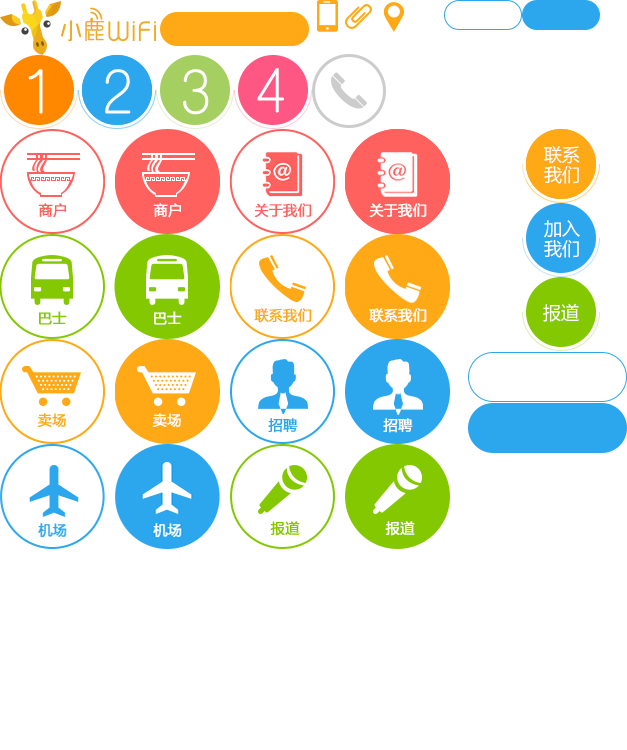
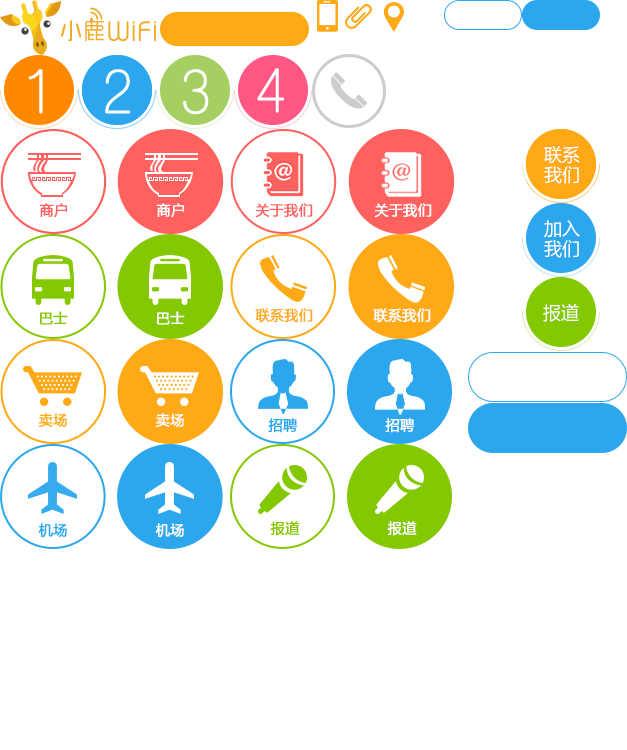
modify head.php, foot.php, and navBar

diff --git a/style/product.css b/style/product.css
@@ -76,10 +76,11 @@ a{color: #000; }
 .mb20{margin-bottom: 20px;}
 .ml20{margin-left: 20px;}
 .ml60{margin-left: 60px;}
+.ml100{margin-left: 100px;}
 .ml200{margin-left: 200px;}
 .pt20{padding-top: 20px;}
 .pl100{padding-left: 100px;}
-.placeHolder50{height: 50px;}
+.placeHolder30{height: 30px;}
 /*float*/
 .fl{float:left;}
 .fr{float:right;}
@@ -93,25 +94,25 @@ a{color: #000; }
 /*sideBar model*/
 .sideBar{position: relative; font-size: 14px; width: 107px; text-align: center; line-height: 105px; }
 .sideBar li{margin-bottom: 24px; height: 105px;}
-.sideBar li a{display: block; width: 105px; height: 105px; background: url('../img/index.png');}
+.sideBar li a{display: block; width: 107px; height: 105px; background: url('../img/index.png');}
 /*case portion*/
 .sideBar .customer{background-position: 0 -129px;}
 .sideBar .mall{background-position: 0 -234px;}
 .sideBar .airport{background-position: 0 -339px;}
 .sideBar .bus{background-position: 0 -444px;}
-.sideBar .customer:hover{background-position: -115px -129px;}
-.sideBar .mall:hover{background-position: -115px -234px;}
-.sideBar .airport:hover{background-position: -115px -339px;}
-.sideBar .bus:hover{background-position: -115px -444px;}
+.sideBar .customer:hover{background-position: -117px -129px;}
+.sideBar .mall:hover{background-position: -117px -234px;}
+.sideBar .airport:hover{background-position: -117px -339px;}
+.sideBar .bus:hover{background-position: -117px -444px;}
 /*about portion*/
 .sideBar .aboutUs{background-position: -230px -129px;}
 .sideBar .contact{background-position: -230px -234px;}
 .sideBar .hire{background-position: -230px -339px;}
 .sideBar .report{background-position: -230px -444px;}
-.sideBar .aboutUs:hover{background-position: -345px -129px;}
-.sideBar .contact:hover{background-position: -345px -234px;}
-.sideBar .hire:hover{background-position: -345px -339px;}
-.sideBar .report:hover{background-position: -345px -444px;}
+.sideBar .aboutUs:hover{background-position: -347px -129px;}
+.sideBar .contact:hover{background-position: -347px -234px;}
+.sideBar .hire:hover{background-position: -347px -339px;}
+.sideBar .report:hover{background-position: -347px -444px;}
 
 /*index.html */
 .header .logo{width:156px; height: 55px; background: url("../img/index.png") no-repeat 0 0;}
@@ -120,27 +121,27 @@ a{color: #000; }
 .header .nav li:hover{border-bottom: 2px solid #fea915; padding-bottom: 0px; cursor: pointer;}
 .header .nav li a{color: #858585; font-size: 16px;}
 .header .nav li a:hover{text-decoration: none;}
-.rightBtn{position: relative;}
-.secondList{position:relative; z-index: 1;}
+.rightBtn{position: relative; top: 17px;}
+.secondList{position:relative; left: 84px; width: 252px; z-index: 1;}
 .secondList ul{display: none;position: absolute;}
 .secondList .u1{left: 0;}
 .secondList .u2{left: 33%;}
 .secondList .u3{left: 66%;}
-.secondList li{width: 84px; height: 40px; background: #fff; text-align: center; line-height: 40px; border-bottom: 2px solid #ccc;}
-.secondList li a{color:#858585;}
+.secondList li{width: 84px; height: 35px; line-height: 35px; background: #fff; text-align: center; border-bottom: 1px solid #e1e1e1;}
+.secondList li a{color:#858585; font-size: 12px; text-decoration: none;}
 .secondList li:hover{background: #fea915; cursor: pointer;}
 .secondList li:hover a{color: #fff;}
 
-.footer{width: 100%; height: 224px; background:#333; color:#ccc;}
+.footer{width: 100%; height: 190px; background:#333; color:#737373;}
 .footer .container{height:100%;}
-.footer .container .numberInfo{width: 340px; height: 100%; background:#454545; color: #ccc; font-weight: bold;}
+.footer .container .numberInfo{width: 340px; height: 100%; background:#454545; color: #aaaaaa; font-weight: bold;}
 .footer .container .numberInfo p{width: 136px; font-size: 20px; height: 74px; line-height: 37px; background:url('../img/index.png') no-repeat -312px -54px;}
 .footer .container .numberInfo h1{font-size: 30px; text-align: center;}
 .footer .textPanel ul li{float:left;}
-.footer .textPanel a{color: #ccc;}
+.footer .textPanel a{color: #737373;}
 .quanguoyewu{letter-spacing: 14px;}
 
-.footNav{margin: 60px auto 40px;}
+.footNav{margin: 40px auto 30px;}
 .footNav li{margin-right: 74px;}
 .footNav li a{font-size: 20px;}
 .footNav li a:hover{color:#fff;}

diff --git a/script/product.js b/script/product.js
@@ -92,7 +92,7 @@ function switchResume(){
 }
 
 function navInteract(){
-	var navList = $('.nav li');
+	var navList = $('.nav li:gt(0)');
 	var secList = $('.secondList ul');
 	// First list show
 	navList.each(function (i){

diff --git a/about.php b/about.php
@@ -3,7 +3,7 @@
 	<!-- aboutMain -->
 	<div class="w960 m0a aboutMain">
 		<div class="pt20 clearFloat">
-			<div class="fl ml60 sideBar">
+			<div class="fl sideBar">
 				<ul>
 					<li>
 						<a class="aboutUs" href="#aboutUs"></a>
@@ -19,7 +19,7 @@
 					</li>
 				</ul>
 			</div>
-			<div class="fl ml60 main">
+			<div class="fl ml100 main">
 				<div class="content" id="aboutUs">
 					<p>龙默升科技是领先的商用智能路由器生产商、商用智能WiFi方案提供商与服务运营商。</p>
 					<p>龙默升科技在全球范围内，为机场、火车站、客运中心等交通枢纽，巴士、列车等交通工具，餐厅、咖啡馆、 美发沙龙内等商户广泛提供免费WiFi，让沟通更加便捷，旅程充满乐趣、等待不再漫长。</p> <p>龙默升在为终端用户提供更快速、更易用、更场景化也更有趣的WiFi体验的同时，也为这些场所的拥有者， 提供精准的人群数据分析，并在此基础上提供完善的BI服务解决方案、与精准营销内容分发平台。</p>

diff --git a/head.php b/head.php
@@ -18,16 +18,21 @@
 		</div>
 		<div class="mt10 clearFloat fr rightBtn">
 			<ul class="clearFloat nav">
+				<li>
+					<a href="index.php">首页</a>
+			    	<span class="fr ccc">|</span>
+				</li>
 			    <li>
 			    	<a href="index.php">产品</a>
+			    	<span class="fr ccc">|</span>
 			    </li>
 			    <li>
-			    	<span class="fl ccc">|</span>
 			    	<a href="case.php">案例</a>
 			    	<span class="fr ccc">|</span>
 			    </li>
 			    <li>
 			    	<a href="javascript:void(0);">关于</a>
+			    	<span class="fr ccc">|</span>
 			    </li>
 			</ul>
 			<div class="secondList">

diff --git a/foot.php b/foot.php
@@ -2,11 +2,11 @@
 	<div class="clearFloat footer">
 		<div class="w960 m0a container">
 			<div class="fl numberInfo">
-				<div class="placeHolder50"></div>
+				<div class="placeHolder30"></div>
 				<p class="pl100 m0a"><span class="quanguoyewu">全国业务</span><br><span>统一咨询电话</span></p>			
 				<h1>021-12345678</h1>
 			</div>
-			<div class="fr">
+			<div class="fl ml100">
 				<div class="textPanel">
 					<ul class="clearFloat footNav">
 						<li><a href="javascript:void(0);">产品</a></li>

diff --git a/case.php b/case.php
@@ -2,7 +2,7 @@
 	<!-- caseMain -->
 	<div class="w960 m0a caseMain">
 		<div class="clearFloat">
-			<div class="fl ml60 sideBar">
+			<div class="fl  sideBar">
 				<ul>
 					<li>
 						<a class="customer" href="javascript:void(0):"></a>
